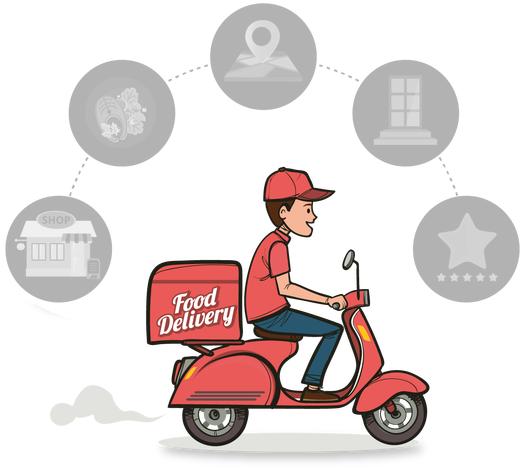
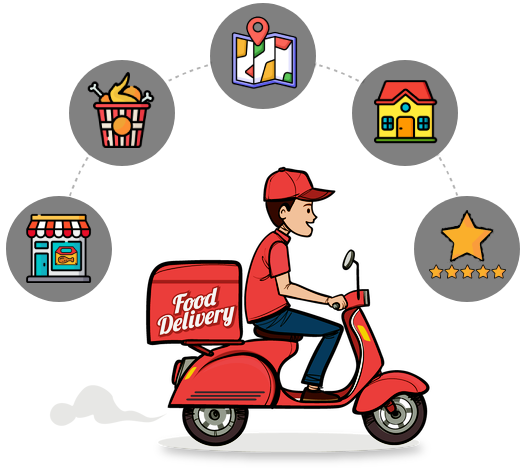
Sección delivery responsive

diff --git a/index.html b/index.html
@@ -664,30 +664,35 @@
       </section>
 
       <!-- Sección Delivery -->
-      <section class="hero delivery">
-        <article class="hero__item delivery__item contenedor">
-          <div class="hero__content-img">
+      <section class="delivery">
+        <article class="delivery__item contenedor">
+          <div class="delivery__img--moto">
             <img
               loading="lazy"
-              class="delivery__img--png"
               src="delivery/delivery.png"
-              alt=""
+              alt="Delivery motocicleta con iconos a su alrededor"
             />
           </div>
 
-          <div class="delivery__img">
-            <img loading="lazy" src="delivery/hand-phone.png" alt="" />
+          <div class="delivery__img--hand-cellphone">
+            <img
+              loading="lazy"
+              src="delivery/hand-phone.png"
+              alt="Mano sosteniendo un celular"
+            />
           </div>
 
-          <div class="hero__text delivery__text">
+          <div class="delivery__details">
             <h1 class="delivery__title">We Guarantee</h1>
             <h2 class="delivery__subtitle">30 Minute Delivery</h2>
             <div class="delivery__paragraph">
-              <p>
+              <p class="delivery__paragraph--text">
                 If you're having a metting, working late at night and need an
                 extra push.
               </p>
-              <p>Let us know and we will be there</p>
+              <p class="delivery__paragraph--text">
+                Let us know and we will be there
+              </p>
             </div>
             <button class="btn btn--yellow">ORDER NOW</button>
           </div>
@@ -695,10 +700,10 @@
       </section>
 
       <!-- Sección Newsletter -->
-      <section></section>
+      <!-- <section></section> -->
 
       <!-- Sección Carrousel de imágenes -->
-      <section></section>
+      <!-- <section></section> -->
     </main>
 
     <!-- Información de marca y legal -->

diff --git a/styles.css b/styles.css
@@ -1027,41 +1027,66 @@
 /* Inicio: Sección Delivery */
 
 .delivery{
-  background-image: none;
+  height: fit-content;
   background-color: var(--color-primary);
   position: relative;
 }
 
 .delivery__item{
+  padding-block: 80px;
+  display: grid;
   width: 96%;
   grid-template-columns: 1fr 1fr;
+  overflow: hidden;
 }
 
-.delivery__img--png{
-  width: 500px;
+.delivery__img--moto{
+  margin: auto 0;
 }
 
-.delivery__img{
+.delivery__img--moto img{
+  width: 40vw;
+  opacity: 0.9;
+}
+
+.delivery__img--hand-cellphone{
   position: absolute;
   right: 0;
-  bottom: -5px;
-  z-index: -1;
+  bottom: -6px;
+  overflow: hidden;
 }
 
-.delivery__img img{
+.delivery__img--hand-cellphone img{
   opacity: .9;
   width: 360px;
 }
 
-.delivery__text{
+.delivery__details{
+  max-height: 500px;
+  min-width: 420px;
+  display: flex;
+  flex-direction: column;
+  gap: var(--spacing-lg);
   background-color: rgba(109, 2, 0, 0.8);
-  padding: var(--spacing-xl);
+  padding: 56px var(--spacing-xl);
+  z-index: 1;
+}
+
+.delivery__details > .btn{
+  height: 48px;
+  width: 200px;
+  color: var(--color-text);
+}
+
+.delivery__details > .btn:hover{
+  color: var(--color-text-light);
 }
 
 .delivery__title{
   font-size: 20px;
   font-weight: 600;
   color: var(--color-text-yellow);
+  margin-bottom: -20px;
 }
 
 .delivery__subtitle{
@@ -1074,13 +1099,13 @@
 .delivery__paragraph{
   display: flex;
   flex-direction: column;
-  gap: var(--spacing-md);
-  font-size: 18px;
-  color: var(--color-text-light);
+  gap: var(--spacing-lg);
 }
 
-.delivery__paragraph > p{
+.delivery__paragraph--text{
   font-family: var(--font-family-roboto);
+  font-size: 18px;
+  color: var(--color-text-light);
 }
 
 /* Fin: Sección Delivery */

diff --git a/responsive.css b/responsive.css
@@ -213,6 +213,11 @@
     font-size: 48px;
   }
 
+  /* -- Delivery -- */
+  .delivery__subtitle{
+    font-size: 48px;
+  }
+
   /* -- Footer -- */
   /* .footer {
     padding: 30px;
@@ -293,6 +298,31 @@
 
   .carousel__image img{
     width: 100px;
+  }
+
+  /* -- Delivery -- */
+  .delivery__item{
+    grid-template-columns: 1fr;
+    grid-template-rows: auto 1fr;
+  }
+
+  .delivery__img--moto{
+    margin: 0 auto;
+  }
+
+  .delivery__img--moto img{
+    width: 80vw;
+  }
+
+  .delivery__img--hand-cellphone img{
+    width: 180px;
+  }
+
+  .delivery__details{
+    max-height: fit-content;
+    min-width: 90vw;
+    align-items: center;
+    text-align: center;
   }
 
   /* -- Footer -- */
@@ -446,6 +476,15 @@
 
   .slick-dots{
     margin-top: var(--spacing-sm);
+  }
+
+  /* -- Delivery -- */
+  .delivery__title{
+    font-size: var(--font-size-base);
+  }
+
+  .delivery__subtitle{
+    font-size: 32px;
   }
 
   /* -- Footer -- */
